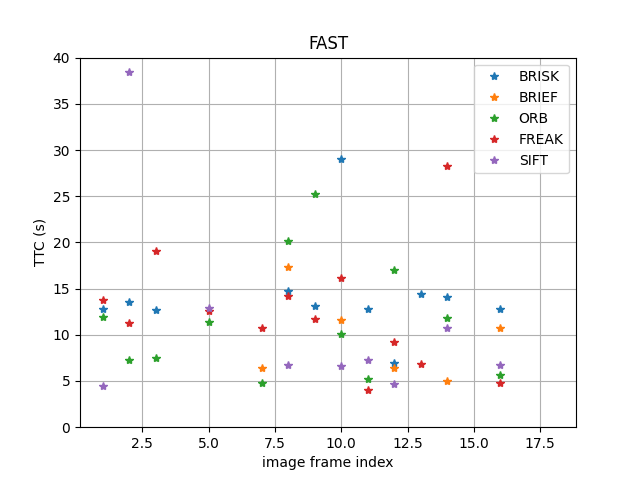
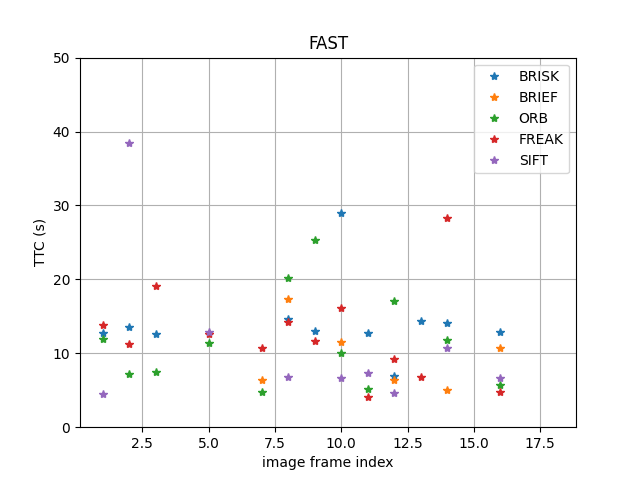
update Report.md

diff --git a/SFND_3D_Object_Tracking/src/FinalProject_Camera.cpp b/SFND_3D_Object_Tracking/src/FinalProject_Camera.cpp
@@ -82,9 +82,9 @@ int main(int argc, const char *argv[])
     vector<double> ttcCameraData(num_ttc, NAN);
 
     // variable
-    string detectorType = "SIFT";         //// -> SHITOMASI, HARRIS, FAST, BRISK, ORB, AKAZE (only with AKAZE), SIFT (not with ORB)
+    string detectorType = "BRISK";         //// -> SHITOMASI, HARRIS, FAST, BRISK, ORB, AKAZE (only with AKAZE), SIFT (not with ORB)
 
-    string descriptorType = "SIFT"; //// ->  SIFT, BRIEF, ORB, FREAK, AKAZE(only with AKAZE), SIFT (change to HOG)
+    string descriptorType = "SIFT"; //// ->  BRISK, BRIEF, ORB, FREAK, AKAZE(only with AKAZE), SIFT (change to HOG)
 
     /* MAIN LOOP OVER ALL IMAGES */
 

diff --git a/SFND_3D_Object_Tracking/ttc/ttc_plot.py b/SFND_3D_Object_Tracking/ttc/ttc_plot.py
@@ -23,7 +23,7 @@ def report_image():
         fig, ax = plt.subplots()
         ax.set(xlabel='image frame index', ylabel='TTC (s)',
                title=detector, )
-        ax.set_ylim(0, 40)
+        ax.set_ylim(0, 50)
         descriptor_list = []
         for descriptor in descriptors:
             txt_name = detector + "_" + descriptor + ".txt"

diff --git a/SFND_3D_Object_Tracking/Report.md b/SFND_3D_Object_Tracking/Report.md
@@ -111,7 +111,7 @@ Each graph provides the trend of TTC od one detector along with different descri
 <img src="images/report_images/SIFT.png" />
 
 
-For example, if we look at a matched image in FAST detector + BRISK descriptor, some matched points are not belonging to the precedding car but belonging to the car which is far away but overlapped with precedding car in the image.
-It is also difficult to filter those matched points.
+For example, if we look at a matched image in FAST detector + BRISK descriptor, some matched points are not belonging to the preceding car but belonging to the car which is far away, but overlapped with precedding car in the image.
+It is also difficult to filter those erroneous matched points.
 
 <img src="images/report_images/FAST_BRISK.png"  />
